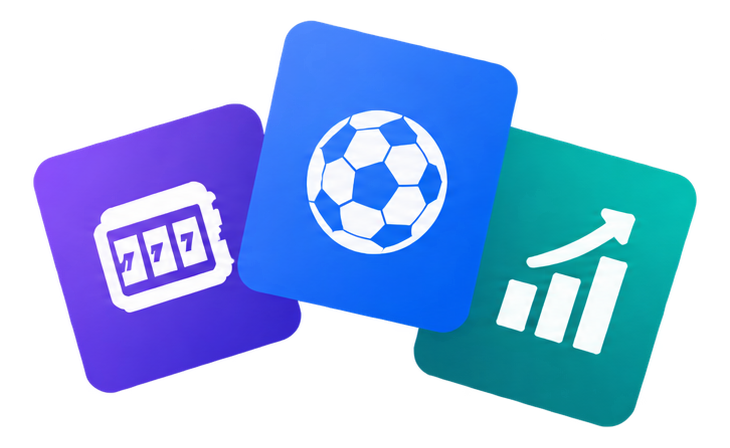
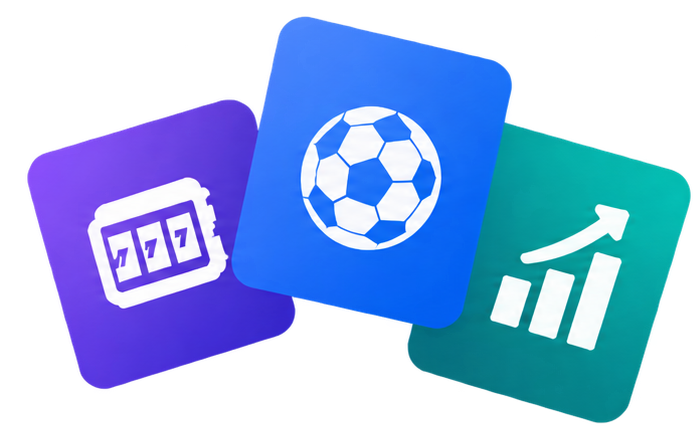
Optically normalize Casino promo illustration alignment, sizing and right-edge margin
Claude-Session: https://claude.ai/code/session_01Si3bMJ3StnfrToBXrxreHz

diff --git a/src/components/casino/PromoStrip.jsx b/src/components/casino/PromoStrip.jsx
@@ -50,10 +50,13 @@ const stopAnd = (fn) => (e) => {
 // absolute, vertically centered (top-1/2 + -translate-y-1/2, not an inset-y-0
 // full-bleed or a fixed top/bottom px pair), right-aligned with a small fixed
 // inset (not flush-zero), object-contain (never crops, always preserves
-// aspect ratio), sized to ~40-42% of the card's width and ~82% of its height
-// — comfortably inside this task's 38-44%/80-85%/16-24px-inset targets at
-// both CARD_H breakpoints (144px/176px) without needing separate tuning per
-// size, since percentages scale with the card automatically.
+// aspect ratio). width/height are per-asset (see each call site) — tuned so
+// the VISIBLE (non-transparent) artwork, not the padded PNG canvas, lands
+// ~4-8px from the card's right edge and reads as comparable visual weight
+// across Wallet/Arenas/Verify despite their different natural aspect ratios
+// and internal whitespace (OPTICAL NORMALIZATION PASS — see the three PNGs'
+// own trim, which now carries only ~5px of right-side transparent padding so
+// this inset isn't fighting leftover canvas margin).
 //
 // WIDTH/HEIGHT SIZING PASS (replaces a `scale()`-based system that clipped
 // content): `width`/`height` (per-asset, percentages of the card) size the
@@ -89,7 +92,7 @@ const stopAnd = (fn) => (e) => {
 function PromoIllustration({ src, glow = true, width = "40%", height = "82%" }) {
   return (
     <div
-      className="promo-card__visual pointer-events-none absolute top-1/2 right-[18px] -translate-y-1/2"
+      className="promo-card__visual pointer-events-none absolute top-1/2 right-[4px] -translate-y-1/2"
       style={{ width, height, scale: 1 }}
     >
       {glow && (
@@ -552,7 +555,7 @@ function AboutTribetCard() {
       title="One wallet. Three arenas."
       body="Built by betting veterans and players."
       artworkSrc="/heroes/promo-three-arenas.png"
-      artworkWidth="43%"
+      artworkWidth="46%"
       artworkHeight="85%"
     />
   );
@@ -566,7 +569,7 @@ function TransparentPlayCard() {
       body="Every result can be verified on-chain."
       artworkSrc="/heroes/promo-verify.png"
       artworkWidth="44%"
-      artworkHeight="81%"
+      artworkHeight="86%"
     />
   );
 }
